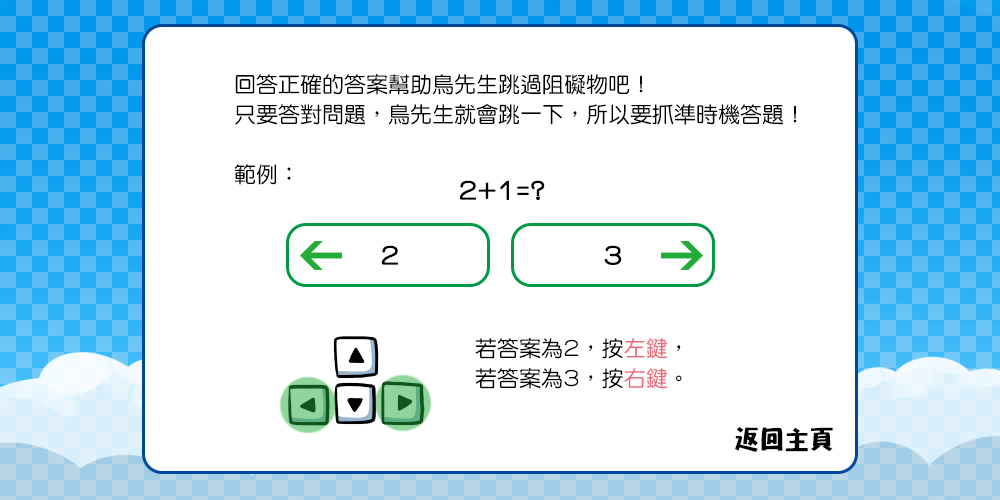
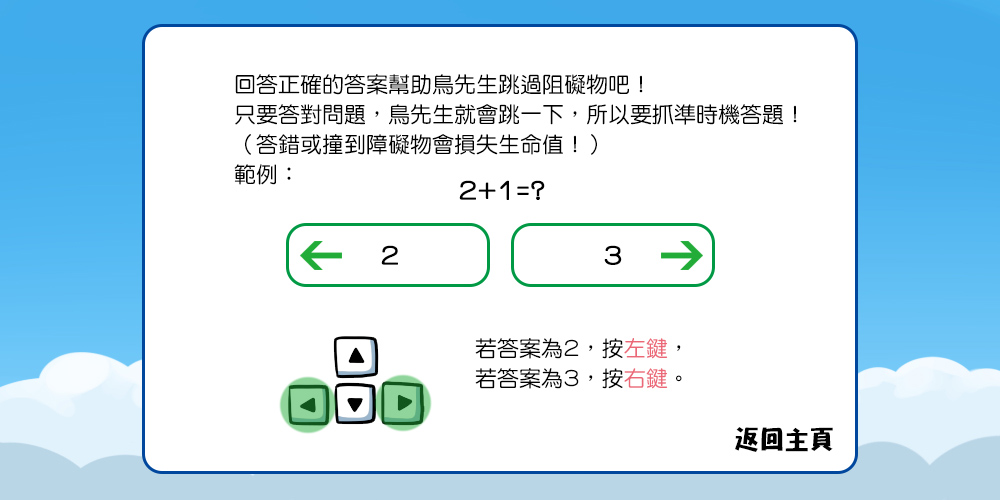
change the readme pictures and add the mobile version readme picture

Changed region(s): [[0.0, 0.0, 1.0, 0.78], [0.0, 0.87, 1.0, 1.0], [0.248, 0.27, 0.589, 0.33]]

diff --git a/resources/views/smallgame/smallgame_mobile.blade.php b/resources/views/smallgame/smallgame_mobile.blade.php
@@ -442,7 +442,7 @@ gameStateManager[0][2]=gameState_menu[2];
 gameStateManager[0][3]=gameState_menu[3];
 ////
 
-gameReadme=new component(1000,500,"/img/game/Rules.jpg",0,0,"image");//說明頁面物件
+gameReadme=new component(1000,500,"/img/game/Rules_mobile.jpg",0,0,"image");//說明頁面物件
 gamePlay_1=new component(1000,500,"/img/game/story_1.jpg",0,0,"image");
 gamePlay_2=new component(1000,500,"/img/game/story_2.jpg",0,0,"image");
 gamePlay_3=new component(1000,500,"/img/game/story_3.jpg",0,0,"image");
